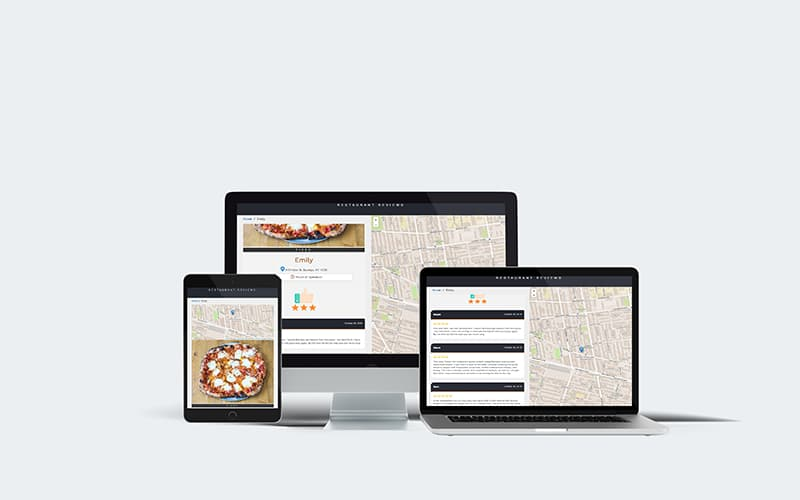
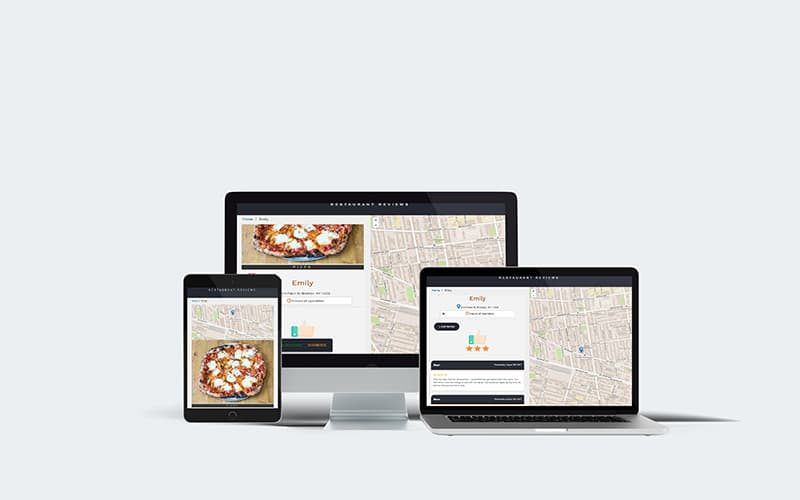
updated site with latest MWS project

Changed region(s): [[0.2812, 0.39, 0.8125, 0.81]]

diff --git a/src/App.jsx b/src/App.jsx
@@ -8,9 +8,9 @@ import Backdrop from "./components/UI/Backdrop";
 import About from "./components/About";
 import Projects from "./components/Projects";
 import Skills from "./components/Skills";
-import Contact from "./components/Contact";
+// import Contact from "./components/Contact";
 import Footer from "./components/Footer";
-
+import AsyncComponent from "./components/HOC/AsyncComponent";
 import "react-hint/css/index.css";
 import "aos/dist/aos.css";
 
@@ -18,17 +18,28 @@ const ReactHint = ReactHintFactory(React);
 
 class App extends Component {
   state = {
-    loading: true,
-    sideNavOpen: false
+    loading: false,
+    sideNavOpen: false,
+    pageTouched: false
   };
 
   componentDidMount() {
-    this.loadSite(() => {
-      AOS.init({
-        disable: "mobile"
-      });
-    }, 1000);
+    AOS.init({
+      disable: "mobile"
+    });
+    window.addEventListener("scroll", e => {
+      if (window.scrollY > 1 && !this.state.pageTouched) {
+        this.setState({
+          pageTouched: true
+        });
+      }
+    });
   }
+
+  renderContact = () => {
+    const AsyncContact = AsyncComponent(() => import("./components/Contact"));
+    return <AsyncContact />;
+  };
 
   componentDidUpdate(prevProps, prevState, snapshot) {
     if (prevState.sideNavOpen !== this.state.sideNavOpen) {
@@ -91,7 +102,7 @@ class App extends Component {
             <Projects />
             <Skills />
 
-            <Contact />
+            {this.state.pageTouched && this.renderContact()}
           </main>
           <Footer />
         </div>

diff --git a/src/components/Projects/PictureGallery.jsx b/src/components/Projects/PictureGallery.jsx
@@ -265,7 +265,7 @@ function PictureGallery({ device }) {
         <figure data-aos-delay="200" data-aos="fade-up" data-aos-offset="500">
           <picture>
             <source media="(min-width: 650px)" srcSet={restReviewsSm} />
-            <source media="(max-width: 465px)" srcSet={restReviewsLg} />
+            <source media="(max-width: 465px)" srcSet={restReviewsSm} />
             <img
               style={device !== "mobile" ? { position: "absolute" } : {}}
               src={restReviewsLg}
@@ -277,7 +277,7 @@ function PictureGallery({ device }) {
             <div className="github">
               <div
                 onClick={() =>
-                  window.open("https://github.com/Dmitri801/MWS-Restaurant-V2")
+                  window.open("https://github.com/Dmitri801/MWS-RReviews_Final")
                 }
                 data-rh-at="right"
                 data-rh="Github"
@@ -287,7 +287,9 @@ function PictureGallery({ device }) {
               </div>
             </div>
             <div className="view-site">
-              <button onClick={() => window.open("https://dmiwebtree.com")}>
+              <button
+                onClick={() => window.open("https://restaurantreviews.live")}
+              >
                 View Site
               </button>
             </div>

diff --git a/src/components/Header/index.jsx b/src/components/Header/index.jsx
@@ -35,17 +35,17 @@ class Header extends Component {
             style={navAtTop ? {} : { background: "#000" }}
             className="hamburger"
           >
-            <a
+            <div
+              style={{ cursor: "pointer" }}
               onClick={this.props.openSideNav}
               aria-label="Side Nav Open"
-              href="#!"
             >
               <svg width="30" height="30">
                 <path d="M0,5 30,5" stroke="#fff" strokeWidth="3" />
                 <path d="M0,14 30,14" stroke="#fff" strokeWidth="3" />
                 <path d="M0,23 30,23" stroke="#fff" strokeWidth="3" />
               </svg>
-            </a>
+            </div>
           </div>
         </Fade>
 

diff --git a/src/components/HOC/AsyncComponent.jsx b/src/components/HOC/AsyncComponent.jsx
@@ -1,0 +1,20 @@
+import React, { Component } from "react";
+
+export default function asyncComponent(importComponent) {
+  class AsyncComponent extends Component {
+    state = {
+      component: null
+    };
+    async componentDidMount() {
+      const { default: component } = await importComponent();
+      this.setState({
+        component: component
+      });
+    }
+    render() {
+      const Component = this.state.component;
+      return Component ? <Component {...this.props} /> : null;
+    }
+  }
+  return AsyncComponent;
+}

diff --git a/src/components/About/index.jsx b/src/components/About/index.jsx
@@ -56,7 +56,7 @@ function About() {
               capabilities, push notifications, responsiveness, and even the
               ability to download the site to your phones home screen could be
               the future of the web. This website hits a perfect 100 PWA rating.
-              But it still has that annoying loading wheel at the beginning ..
+              And you can even download it if you really want too...
             </p>
           </div>
           <div className="point mobile">
